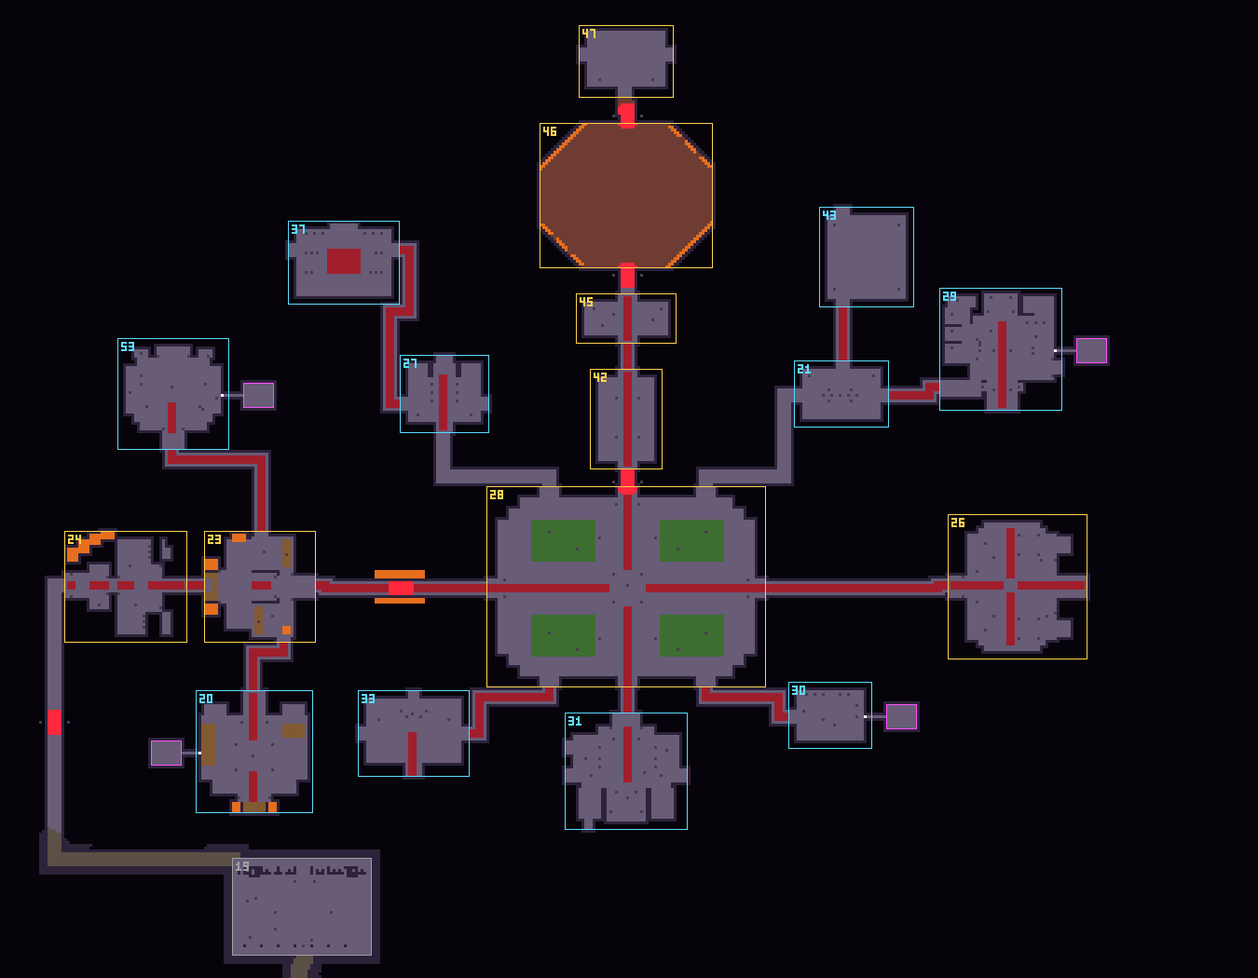
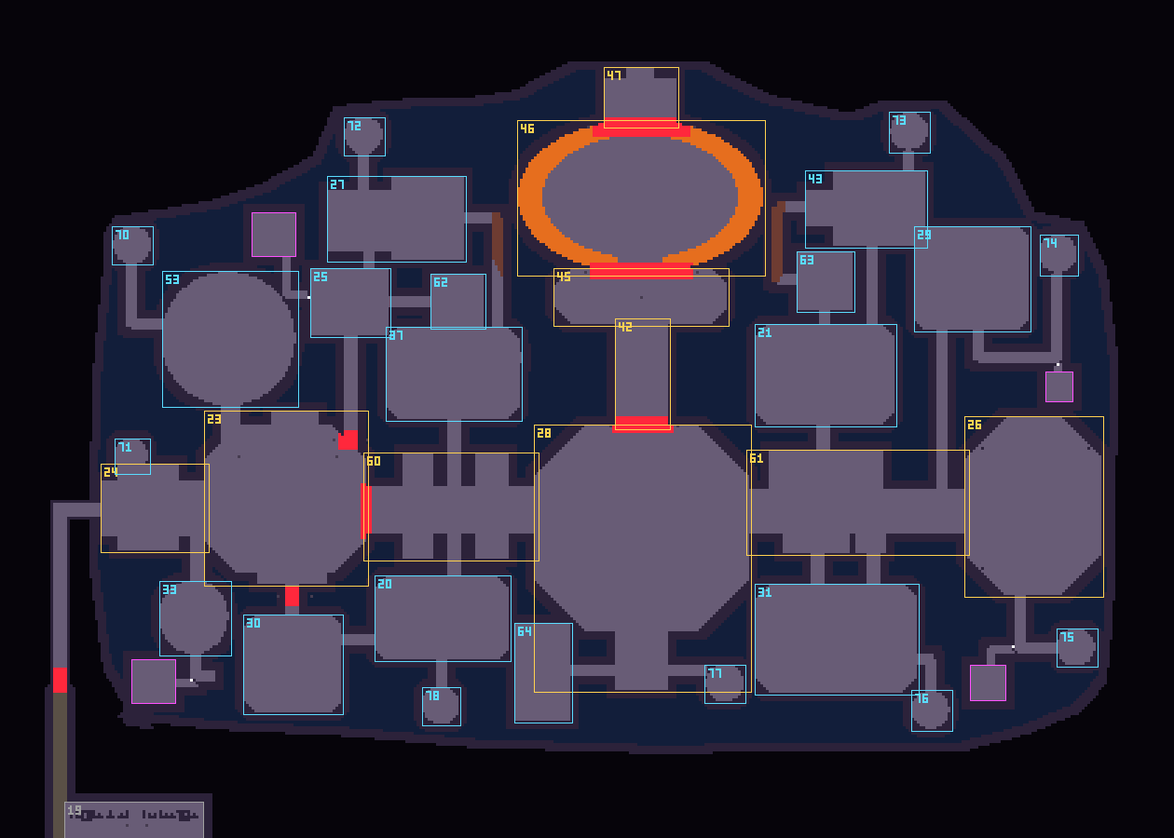
Sunthief's Castle rebuild, stage B: the fixed footprint is the game's castle. LAYOUT.throne lays it tile for tile (walls, the moat as deep water, floors, Ashkar's lava) at its world place (castle_master WORLD), each of its rooms an area of the plan (castle_master AREA_OF: the old numbers where monst

diff --git a/src/world/maps.js b/src/world/maps.js
@@ -3,6 +3,7 @@ import { keyParen } from '../settings.js';
 import { rng, noise2, dist } from '../util.js';
 import { AREAS, WAYS, LOCKS, MECHS, GEYSERS, SECRETS } from './castle_plan.js';
 import { ROOMS } from './castle_rooms.js';
+import { buildMaster, K as MK, WORLD as MWORLD, LOCK_DOORS, WEST_DOOR, toWorld as mWorld, ROOMS as MROOMS } from './castle_master.js';
 
 export const TILE_NAMES = ['water', 'deep', 'sand', 'fen', 'mud', 'snow', 'runefloor', 'runeglyph',
   'ash', 'obsidian', 'marble', 'forge', 'forgewall', 'lava', 'void', 'chapelfloor', 'chapelwall', 'goldvein', 'ribwall',
@@ -1475,14 +1476,22 @@ export function dungeon(seed, def) {
       for (const [num, key, title, region, cx, cy, w, h, shape, ex = {}] of AREAS) {
         const n = room(Math.round(cx - w / 2), Math.round(cy - h / 2), w, h, { kind: KIND[key] || 'area', key, title, num, region, form: shape, sect: SECT[region], shape: 'maze', dep: num, ...ex });
         if (ex.opt) n.leaf = true;
-        const T = ROOMS[key];                                           // (a room laid out from the user's page: its own size, its own place: src/world/castle_rooms.js)
-        if (T) { const [ax, ay] = T.at || [cx, cy]; n.w = T.w; n.h = T.h; n.x = Math.round(ax - T.w / 2); n.y = Math.round(ay - T.h / 2); n.cx = n.x + (T.w >> 1); n.cy = n.y + (T.h >> 1); n.tpl = T; }
+        const T = ex.master ? { w, h, floor: [], doors: {}, master: ex.master } : ROOMS[key];   // (a room of the castle's fixed footprint: laid from it below; otherwise a room laid out from the user's page: its own size, its own place: src/world/castle_rooms.js)
+        if (T && T.master) { n.tpl = T; n.master = ex.master; }
+        else if (T) { const [ax, ay] = T.at || [cx, cy]; n.w = T.w; n.h = T.h; n.x = Math.round(ax - T.w / 2); n.y = Math.round(ay - T.h / 2); n.cx = n.x + (T.w >> 1); n.cy = n.y + (T.h >> 1); n.tpl = T; }
         A[num] = n; R0[key] = n;
       }
       const ell = (cx, cy, rx, ry, t = FLOOR) => { for (let y = Math.floor(cy - ry); y <= cy + ry; y++) for (let x = Math.floor(cx - rx); x <= cx + rx; x++) if (((x - cx) / rx) ** 2 + ((y - cy) / ry) ** 2 <= 1) set(x, y, t); };
       const box = (n, t = FLOOR, i = 0) => carve(n.x + i, n.y + i, n.x + n.w - 1 - i, n.y + n.h - 1 - i, t);
       const poly = (pts, w, t = FLOOR) => { for (let i = 1; i < pts.length; i++) tube(pts[i - 1][0], pts[i - 1][1], pts[i][0], pts[i][1], w, t); };
       const BR = TID.stageboards;                                       // (wooden bridges and boards)
+      const MASTER = rooms.some((n) => n.master) ? buildMaster() : null;   // THE CASTLE'S FIXED FOOTPRINT (2026-11-05: src/world/castle_master.js): its walls, its moat, its floors, its lava
+      if (MASTER) for (let y = 0; y < MASTER.h; y++) for (let x = 0; x < MASTER.w; x++) {
+        const t = MASTER.tiles[y * MASTER.w + x], X = MWORLD[0] + x, Y = MWORLD[1] + y;
+        if (t === MK.VOID) continue;
+        set(X, Y, t === MK.WALL ? WALL : t === MK.WATER ? TID.deep : t === MK.LAVA ? TID.lava : FLOOR);   // (its cracked walls are laid by the secret rooms below)
+      }
+      m.master = MASTER;
       for (const n of rooms) {
         const { x, y, w, h, cx, cy, num } = n, s = num * 7.3;
         if (n.tpl) {                                                    // its page: floor, the blocks standing in it, lava beside
@@ -1635,6 +1644,12 @@ export function dungeon(seed, def) {
       };
       for (const [a, b, opt] of WAYS) {
         const P = U(a), Q = U(b);
+        if (Q.master && !P.master) {                                    // (into the castle: its one door in, the West Door through the curtain; the road round outside the walls)
+          const [dx, dy] = mWorld(...WEST_DOOR), f = floorNear(P, dx - 12, P.cy), pts = [f, [dx - 12, f[1]], [dx - 12, dy], [dx + 4, dy]];
+          poly(pts, 2, FLOOR); markPath(pts); for (let i = 1; i < pts.length; i++) halls.push({ u: pts[i - 1], v: pts[i], climb: true, pid: a + '-' + b });
+          ways[a + '-' + b] = { a, b, mid: [dx - 12, Math.round((f[1] + dy) / 2)], w: 2, dir: Math.PI / 2, opt: !!opt };
+          link(P, Q); continue;
+        }
         const dA = P.tpl && P.tpl.doors[b], dB = Q.tpl && Q.tpl.doors[a];
         if (dA || dB) {                                                 // (to or from a room laid out from its page: through the page's door)
           const end2 = (R, d, o) => { if (!d) { const q = floorNear(R, ...o); return { p: q, o: q }; } const [dx, dy] = SIDE[d[2]], q = [R.x + d[0], R.y + d[1]]; return { p: q, o: [q[0] + dx * 4, q[1] + dy * 4] }; };
@@ -1669,6 +1684,11 @@ export function dungeon(seed, def) {
         { const [ex, ey] = [P.cx, P.cy], [fx, fy] = [Q.cx, Q.cy]; if (P.region === 'forest') markPath([pa2, [ex, ey]]); if (Q.region === 'forest') markPath([pb, [fx, fy]]); }   // (and in the woods, on from the edge to the clearing's middle)
         ways[a + '-' + b] = { a, b, mid, w, dir: Math.atan2(pb[1] - pa2[1], pb[0] - pa2[0]), opt: !!opt };
         link(P, Q);
+      }
+      if (MASTER) for (const [name, [[a0, b0, a1, b1], side]] of Object.entries(LOCK_DOORS)) {   // (the footprint's locked doorways: every open tile in each its gate)
+        const [x0, y0] = mWorld(a0, b0), [x1, y1] = mWorld(a1, b1), [a, b] = name.split('-').map(Number);
+        ways[name] = { a, b, mid: [Math.round((x0 + x1) / 2), Math.round((y0 + y1) / 2)], w: Math.floor(((side === 'N' || side === 'S' ? x1 - x0 : y1 - y0) - 2) / 2), dir: side === 'N' ? -Math.PI / 2 : side === 'S' ? Math.PI / 2 : side === 'W' ? Math.PI : 0, rect: [x0, y0, x1, y1], hall: true };
+        link(U(a), U(b));
       }
       const gate = U(47), arrive = U(48);
       m.castle = { rooms: R0, plan: { ways }, halls, roadTiles: roadSet, door: { x0: gate.cx - 2, x1: gate.cx + 1, y0: gate.y + 2, y1: gate.y + 4 }, arrive: { x: arrive.cx + 0.5, y: arrive.cy + 0.5 } };
@@ -2972,6 +2992,25 @@ export function dungeon(seed, def) {
     rooms.pop(); carveRoom(s); carve(t0x, t0y, t1x, t1y);
     s.plug = { x: px, y: py }; s.tunnel = [t0x, t0y, t1x, t1y]; secrets.push(s);
   }
+  if (m.master) {                                                     // the footprint's secret chambers (castle_master.js): its tunnel ends in a cracked wall at the room it opens from
+    const M = m.master, [WX, WY] = MWORLD, own = (i) => M.owner[i], mid = (i) => [WX + (i % M.w), WY + Math.floor(i / M.w)];
+    MROOMS.forEach((R, k) => {
+      if (R.kind !== 'secret') return;
+      const mine = new Set(); for (let i = 0; i < M.w * M.h; i++) if (own(i) === k) mine.add(i);
+      const seen = new Set(mine), Q = [...mine], tun = []; const plugs = [];   // (its tunnel: the secret tiles that join it, out to their cracked walls)
+      while (Q.length) { const i = Q.pop(), x = i % M.w; for (const j of [x + 1 < M.w ? i + 1 : -1, x > 0 ? i - 1 : -1, i + M.w, i - M.w]) { if (j < 0 || j >= M.w * M.h || seen.has(j)) continue; const t = M.tiles[j]; if (t === MK.SECRET && own(j) < 0) { seen.add(j); Q.push(j); tun.push(j); } else if (t === MK.PLUG) { seen.add(j); plugs.push(j); } } }
+      if (!plugs.length) return;
+      const [px, py] = mid(plugs[0]); for (const j of plugs.slice(1)) { const [x, y] = mid(j); set(x, y, WALL); }   // (one cracked wall; the rest of that end walled)
+      let x0 = 1e9, y0 = 1e9, x1 = -1, y1 = -1; for (const i of mine) { const [x, y] = mid(i); x0 = Math.min(x0, x); y0 = Math.min(y0, y); x1 = Math.max(x1, x); y1 = Math.max(y1, y); }
+      let t0x = 1e9, t0y = 1e9, t1x = -1, t1y = -1; for (const i of tun) { const [x, y] = mid(i); t0x = Math.min(t0x, x); t0y = Math.min(t0y, y); t1x = Math.max(t1x, x); t1y = Math.max(t1y, y); }
+      const from = rooms.find((n) => n.master && [[1, 0], [-1, 0], [0, 1], [0, -1]].some(([dx, dy]) => { const X = px + dx, Y = py + dy; return X >= n.x && Y >= n.y && X < n.x + n.w && Y < n.y + n.h && isF(X, Y); })) || rooms.filter((n) => n.master).reduce((a, b) => (Math.hypot(b.cx - px, b.cy - py) < Math.hypot(a.cx - px, a.cy - py) ? b : a));   // (off a walk: the room nearest it)
+      const s = room(x0, y0, x1 - x0 + 1, y1 - y0 + 1, { secret: true, role: 'secret', kind: 'secret', from, title: R.name, planned: true });
+      rooms.pop();
+      s.plug = { x: px, y: py }; s.tunnel = tun.length ? [t0x, t0y, t1x, t1y] : [px, py, px, py];
+      s.masterVeil = []; for (const i of [...mine, ...tun]) { const [x, y] = mid(i); for (let dy = -1; dy <= 1; dy++) for (let dx = -1; dx <= 1; dx++) { const t = tile(x + dx, y + dy); if (t === WALL || t === TID.deep || t === TID.void || (dx === 0 && dy === 0)) s.masterVeil.push((y + dy) * S + x + dx); } }
+      secrets.push(s);
+    });
+  }
   for (let k = 0, tries = 0; k < (m.castle && m.castle.plan ? 0 : (def.layout && def.layout.secrets) || 0) && tries < 200; tries++) {
     const pool = rooms.filter((n) => n !== boss && n !== start && !n.few);
     if (!pool.length) break;
@@ -3016,6 +3055,7 @@ export function dungeon(seed, def) {
     const inA = s.planned ? (x, y) => x >= A.x && x < A.x + A.w && y >= A.y && y < A.y + A.h && !inT(x, y) && !(Math.abs(x - s.tunnel[0]) <= 1 && Math.abs(y - s.tunnel[1]) <= 1) && tile(x, y) !== TID.void && tile(x, y) !== WALL ? true : false
       : (x, y) => x >= A.x - 1 && x <= A.x + A.w && y >= A.y - 1 && y <= A.y + A.h;   // (not the chamber it opens from, nor its walls; a planned one's tunnel veiled right to its cracked wall)
     const veil = (x0, y0, x1, y1) => { for (let y = y0; y <= y1; y++) for (let x = x0; x <= x1; x++) if (x >= 0 && y >= 0 && x < m.w && y < m.h && !inA(x, y)) { m.veil[y * m.w + x] = 1; (s.veilIdx || (s.veilIdx = [])).push(y * m.w + x); } };
+    if (s.masterVeil) { for (const i of s.masterVeil) { m.veil[i] = 1; (s.veilIdx || (s.veilIdx = [])).push(i); } continue; }
     veil(s.x - 1, s.y - 1, s.x + s.w, s.y + s.h); veil(s.tunnel[0] - 1, s.tunnel[1] - 1, s.tunnel[2] + 1, s.tunnel[3] + 1);
   }
   if (m.sdSeal) for (const i of m.sdSeal) m.tiles[i] = TID.sdwall;
@@ -3417,9 +3457,10 @@ export function dungeon(seed, def) {
     if (m.castle.plan) for (const [la, lb, cond, say] of LOCKS) {                 // (each lock's gate: every floor tile round the middle of its way)
       const W = m.castle.plan.ways[la + '-' + lb], name = la + '-' + lb; m.castle.gates[name] = []; (m.castle.locks = m.castle.locks || []).push({ name, cond, say, a: la, b: lb });
       const R = W.w * 1.5 + 1.5;
-      for (let y = Math.floor(W.mid[1] - R); y <= W.mid[1] + R; y++) for (let x = Math.floor(W.mid[0] - R); x <= W.mid[0] + R; x++) { const t = tile(x, y); if (Math.hypot(x - W.mid[0], y - W.mid[1]) <= R && t !== TID.void && !SOLID_TILES.has(t)) gate(x, y, name); }
+      if (W.rect) { for (let y = W.rect[1]; y <= W.rect[3]; y++) for (let x = W.rect[0]; x <= W.rect[2]; x++) { const t = tile(x, y); if (t !== TID.void && t !== TID.deep && !SOLID_TILES.has(t) && t !== WALL) gate(x, y, name); } }
+      else for (let y = Math.floor(W.mid[1] - R); y <= W.mid[1] + R; y++) for (let x = Math.floor(W.mid[0] - R); x <= W.mid[0] + R; x++) { const t = tile(x, y); if (Math.hypot(x - W.mid[0], y - W.mid[1]) <= R && t !== TID.void && !SOLID_TILES.has(t)) gate(x, y, name); }
       {                                                             // its look across the way: a piece every two tiles, square to the road
-        const look = { '7-8': 'gate_roots', '19-24': 'gate_rock', '28-42': 'portcullis', '46-47': 'portcullis' }[name] || (name === '23-28' ? null : 'gate_seal');
+        const look = { '7-8': 'gate_roots', '19-24': 'gate_rock', '28-42': 'portcullis', '46-47': 'portcullis' }[name] || (name === '23-28' || name === '23-60' ? null : 'gate_seal');
         if (name === '28-42') {                                     // (the keep gate: the Jarls' court's sealed double gate, the user's page; one great piece across the way)
           (m.castle.gateLooks = m.castle.gateLooks || {})[name] = [];
           put(m, 'castle_props/double_gate', Math.round(W.mid[0]), Math.round(W.mid[1]), false, { gateLook: name, look: 'double_gate' }); m.castle.gateLooks[name].push(m.objects[m.objects.length - 1]);
@@ -3430,8 +3471,9 @@ export function dungeon(seed, def) {
           if (W.hall) for (const sd of [-1, 1]) { const x = Math.round(W.mid[0] + nx * sd * (half + 1.5)), y = Math.round(W.mid[1] + ny * sd * (half + 1.5)); put(m, 'keep_decor/keep_pylon', x, y, true, { gatehouse: name }); }   // (the gatehouse: a tower each side)
         }
       }
-      if (name === '23-28') {                                       // the drawbridge: a moat of lava either side; its gate comes down as planks
+      if (name === '23-28' || name === '23-60') {                   // the drawbridge: a moat of lava either side; its gate comes down as planks
         for (const o of m.castle.gates[name]) o.floor = TID.stageboards;
+        if (!W.rect)
         for (let y = Math.floor(W.mid[1] - R - 1); y <= W.mid[1] + R + 1; y++) for (let x = Math.floor(W.mid[0] - R - 4); x <= W.mid[0] + R + 4; x++) if (tile(x, y) === TID.void || tile(x, y) === WALL) set(x, y, TID.lava);
       }
     }

diff --git a/src/world/castle_plan.js b/src/world/castle_plan.js
@@ -13,6 +13,7 @@
 // A way: [a, b, optional] (from area a to area b); its road winds between their nearest sides.
 // A lock: on the way a->b: what opens it (src/castle.js): mech:<key> (a mechanism turned), clear:<n> (that area's
 // defenders dead), break:<n> (that area's cursed objects broken), jarls, ashkar, seal+chain.
+import { masterAreas } from './castle_master.js';
 export const AREAS = [
   // REGION I, THE ASHEN FOREST (bottom right, the forest's way west then north)
   [1, 'a01', 'REALMFALL HOLLOW', 'forest', 700, 748, 26, 28, 'clearing', { role: 'rest' }],
@@ -35,31 +36,9 @@ export const AREAS = [
   [17, 'a17', 'THE CRUCIBLE TRAVERSE', 'mountain', 366, 448, 35, 33, 'ring'],
   [18, 'a18', 'THE PYRE REDOUBT', 'mountain', 418, 452, 42, 35, 'octa'],
   [19, 'a19', 'THE FINAL RAMPART', 'mountain', 418, 404, 50, 35, 'hall'],
-  // ---- THE CASTLE, FROM THE USER'S MASTER LAYOUT (2026-11-05: "Use this as the layout for the castle ... a single route":
-  // West Entrance > Drawbridge Guard > Central Courtyard > the Hollow Jarls (east) > their fall opens the north gate >
-  // Chain Hall > Forge Antechamber > Ashkar (north centre) > the North Keep, its Sun Gate on to the Eclipse Walk). Laid out
-  // at 0.42 tiles to a pixel of the map, the spine at y 290; the side rooms short branches off the route where the map has
-  // them. The rooms are the pages' (src/world/castle_rooms.js), turned where the map turns their doors.
-  // the main route
-  [24, 'a24', 'THE WEST GATE', 'outer', 355, 290, 44, 40, 'hall'],
-  [23, 'a23', 'THE DRAWBRIDGE GUARD', 'outer', 403, 290, 40, 40, 'hall'],
-  [28, 'a28', 'THE CENTRAL COURTYARD', 'outer', 534, 290, 100, 72, 'court'],
-  [26, 'a26', "THE HOLLOW JARLS' COURT", 'outer', 674, 290, 50, 52, 'court', { prefer: 'warden', court: true }],
-  [42, 'a42', 'THE CHAIN HALL', 'inner', 534, 230, 26, 36, 'hall'],
-  [45, 'a45', 'THE FORGE ANTECHAMBER', 'inner', 534, 194, 36, 18, 'hall'],
-  [46, 'a46', 'ASHKAR, THE CHAINED FORGE-GIANT', 'ashkar', 534, 150, 62, 52, 'octa', { guardhall: true }],
-  [47, 'a47', 'THE NORTH KEEP', 'ashkar', 534, 102, 34, 26, 'hall', { role: 'rest', sundoor: true }],
-  // the side rooms (optional; each off the route, back the way it came)
-  [53, 'a53', 'THE CORRUPTED ROSE COURTYARD', 'outer', 372, 221, 40, 40, 'hall', { opt: true, role: 'treasure' }],
-  [20, 'a20', 'THE ROPE & COG GATEHOUSE', 'outer', 401, 349, 42, 44, 'hall', { opt: true, role: 'treasure' }],
-  [27, 'a27', 'THE ROYAL GALLERY', 'inner', 469, 221, 32, 28, 'hall', { opt: true, role: 'treasure' }],
-  [37, 'a37', 'THE LIBRARY', 'inner', 433, 174, 40, 30, 'hall', { opt: true, role: 'treasure' }],
-  [21, 'a21', 'THE DINING HALL', 'inner', 611, 221, 34, 24, 'hall', { opt: true, role: 'treasure' }],
-  [29, 'a29', 'THE BARRACKS', 'inner', 668, 205, 44, 44, 'hall', { opt: true, role: 'treasure' }],
-  [43, 'a43', 'THE TOWER OVERLOOK', 'inner', 620, 172, 34, 36, 'hall', { opt: true, role: 'treasure' }],
-  [31, 'a31', 'THE CHAPEL', 'outer', 534, 356, 44, 42, 'hall', { opt: true, role: 'treasure' }],
-  [30, 'a30', 'THE ARMORY', 'outer', 607, 336, 30, 24, 'hall', { opt: true, role: 'treasure' }],
-  [33, 'a33', 'THE SIDE CHAPEL', 'outer', 458, 342, 40, 31, 'hall', { opt: true, role: 'treasure' }],
+  // ---- THE CASTLE: the user's master layout as one fixed footprint (2026-11-05 rebuild: src/world/castle_master.js), each
+  // room an area of its own from there (its place, its size, its shape all the footprint's; its tiles laid from it)
+  ...masterAreas(),
   // REGION VI, ECLIPSE WALK (apart: the North Keep's Sun Gate's portal only; moved to the west of the map, 2026-11-05)
   [48, 'a48', 'THE ECLIPSE THRESHOLD', 'eclipse', 150, 40, 32, 32, 'round', { arrive: true }],
   [49, 'a49', 'THE DUSK CAUSEWAY', 'eclipse', 150, 90, 24, 55, 'span'],
@@ -72,15 +51,13 @@ export const AREAS = [
 export const WAYS = [
   [1, 2], [2, 3], [3, 5], [5, 7], [7, 8], [8, 9], [9, 10], [10, 11], [11, 12], [12, 13], [13, 15], [15, 16], [16, 17], [17, 18], [18, 19],
   // the castle's one route (the master layout), then the eclipse
-  [19, 24], [24, 23], [23, 28], [28, 26], [28, 42], [42, 45], [45, 46], [46, 47], [48, 49], [49, 50], [50, 51], [51, 52],
+  [19, 24], [48, 49], [49, 50], [50, 51], [51, 52],   // (the castle's own ways are its footprint's doors and walks: castle_master.js)
   [3, 4, true], [4, 5, true], [5, 6, true], [6, 7, true], [12, 14, true], [14, 15, true],
-  // the castle's side rooms: short branches, each back the way it came
-  [23, 53, true], [23, 20, true], [28, 27, true], [27, 37, true], [28, 21, true], [21, 29, true], [21, 43, true], [28, 31, true], [28, 30, true], [28, 33, true],
 ];
 // the locks: on the way a->b, and what opens it
 export const LOCKS = [
   [7, 8, 'clear:7', 'THE WATCH GATE OPENS'], [19, 24, 'clear:19', 'THE FINAL ASCENT OPENS'],
-  [23, 28, 'mechs:clampL,clampR', 'THE CHAINS RELEASE · THE DRAWBRIDGE LOWERS'], [28, 42, 'jarls', 'THE JARLS ARE FALLEN · THE NORTH GATE GRINDS OPEN'],
+  [23, 60, 'mechs:clampL,clampR', 'THE CHAINS RELEASE · THE DRAWBRIDGE LOWERS'], [28, 42, 'jarls', 'THE JARLS ARE FALLEN · THE NORTH GATE GRINDS OPEN'], [23, 25, 'mechs:clampL,clampR'], [23, 30, 'mechs:clampL,clampR'],
   [45, 46, 'mech:seal45', 'THE ENTRANCE SEAL OPENS'], [46, 47, 'ashkar', 'ASHKAR IS FALLEN · THE GREAT SUN GATE IS OPEN'], [50, 51, 'break:50', 'THE CELESTIAL ANCHORS FAIL · THE WAY STEADIES'],
 ];
 // the mechanisms (stand at one, its area cleared, 3 s): [key, area, name, verb, sprite, at x, at y (0..1; else the middle)]
@@ -92,7 +69,7 @@ export const MECHS = [
 // the cursed things to break (an area's lock): [area, count, enemy id]
 // the secret rooms, where the master layout marks them (2026-11-05): [the room it opens from, the side, its name]; behind a
 // cracked wall there, unseen until it breaks, never on the way
-export const SECRETS = [[53, 'E', 'THE HIDDEN CHAMBER'], [29, 'E', 'THE SERVANT PASSAGE'], [30, 'E', "THE QUARTERMASTER'S CACHE"], [20, 'W', "THE SMUGGLER'S HOLD"]];
+export const SECRETS = [];   // (the castle's secret chambers are its footprint's: castle_master.js)
 export const TARGETS = [[31, 3, 'cursed_altar'], [50, 2, 'celestial_anchor'], [6, 1, 'cursed_altar']];
 // the geysers (src/castle.js): [area, flame vents, lava fissures]; set into the ground on and beside its way
 export const GEYSERS = [[9, 3, 0], [10, 4, 0], [11, 0, 3], [12, 5, 0], [13, 2, 0], [15, 2, 0], [16, 0, 4], [17, 0, 2], [18, 3, 0], [19, 4, 1]];

diff --git a/src/world/castle_master.js b/src/world/castle_master.js
@@ -71,7 +71,7 @@ const L = (pts, w, o = {}) => ({ pts, w, ...o });
 export const LINKS = [
   // off the required route
   L([[346, 440], [346, 372]], 16, { stair: true }),                    // the entrance up to the rose courtyard
-  L([[314, 504], [314, 532]], 12),                                    // the entrance down to the side chapel
+  L([[314, 488], [314, 534]], 12),                                    // the entrance down to the side chapel
   L([[258, 247], [258, 300], [312, 300]], 10),                        // the north-west tower down to the rose courtyard
   L([[452, 414], [452, 312]], 12),                                    // the drawbridge's north-east up to the banner hall
   L([[470, 250], [470, 236]], 10),                                    // the banner hall up to the gallery
@@ -82,7 +82,7 @@ export const LINKS = [
   L([[546, 386], [546, 446]], 12, { stair: true }),                   // the library down to the great hall
   L([[401, 534], [401, 562]], 12, { stair: true }),                   // the drawbridge down to the armory
   L([[446, 584], [476, 584]], 10),                                    // the armory to the gatehouse
-  L([[314, 596], [314, 616], [358, 616]], 10),                        // the side chapel to the armory
+  L([[314, 596], [314, 616], [330, 616]], 10),                        // the side chapel's south walk (to the smuggler's cracked wall; no way on to the armory, which is past the drawbridge)
   L([[546, 488], [546, 526]], 12, { stair: true }),                   // the great hall down to the gatehouse
   L([[534, 602], [534, 625]], 10),                                    // the gatehouse to the south-west tower
   L([[650, 612], [690, 612]], 10),                                    // the south watch to the courtyard's south stair
@@ -171,3 +171,44 @@ export function buildMaster() {
   const parts = ROOMS.map((R) => { let x0 = 1e9, y0 = 1e9, x1 = -1, y1 = -1; for (const p of R.parts) { const [a, b] = toT(p.b[0], p.b[1]), [c, d] = toT(p.b[2], p.b[3]); x0 = Math.min(x0, a); y0 = Math.min(y0, b); x1 = Math.max(x1, c); y1 = Math.max(y1, d); } return { ...R, box: [x0, y0, x1, y1] }; });
   return { w, h, tiles: T, owner, parts, plugs, at: toT };
 }
+
+// ---- stage B: the footprint in the game's world (2026-11-05)
+// where the sheet's tile (0, 0) stands in the castle's map (its West Entrance just north of the mountain's Final Rampart)
+export const WORLD = [400, 122];
+// each room's area in the castle plan: [num, key, region, extra] (the old numbers kept where the game's monsters, mechanisms
+// and bosses already know them; new numbers for the rooms new to the layout)
+export const AREA_OF = {
+  entrance: [24, 'outer'], drawbridge: [23, 'outer'], spineW: [60, 'outer'], courtyard: [28, 'outer'], spineE: [61, 'inner'],
+  jarls: [26, 'outer', { prefer: 'warden', court: true }], chainhall: [42, 'inner'], antechamber: [45, 'inner'],
+  ashkar: [46, 'ashkar', { guardhall: true }], northkeep: [47, 'ashkar', { role: 'rest', sundoor: true }],
+  rose: [53, 'outer'], banners: [25, 'outer'], gallery: [27, 'inner'], study: [62, 'inner'], library: [37, 'inner'],
+  overlook: [43, 'inner'], shrine: [63, 'inner'], dining: [21, 'inner'], barracks: [29, 'inner'], sidechapel: [33, 'outer'],
+  armory: [30, 'outer'], ropecog: [20, 'outer'], watch: [64, 'outer'], chapel: [31, 'outer'],
+  twNW: [70, 'outer'], twW: [71, 'outer'], twN1: [72, 'inner'], twN2: [73, 'inner'], twE1: [74, 'inner'], twE2: [75, 'outer'],
+  twSE: [76, 'outer'], twS: [77, 'outer'], twSW: [78, 'outer'],
+};
+// the locks' doorways on the sheet: [x0, y0, x1, y1] (every open tile in it becomes the lock's gate), the side they face
+export const LOCK_DOORS = {
+  '23-60': [[463, 444, 471, 490], 'E'],      // the drawbridge: out of the Drawbridge Guard into the great hall
+  '23-25': [[442, 396, 462, 412], 'N'],      // the guard's north door (to the banner hall and the north-west wing)
+  '23-30': [[390, 536, 412, 550], 'S'],      // the guard's south door (to the armory)
+  '28-42': [[688, 383, 740, 397], 'N'],      // the Jarls' gate: the courtyard's north door, up the chain hall
+  '45-46': [[668, 247, 758, 259], 'N'],      // the forge seal: the antechamber into Ashkar's arena
+  '46-47': [[670, 116, 756, 130], 'N'],      // Ashkar's fall: the arena's north door to the keep
+};
+// the castle's way in from the mountain: a door through the curtain into the West Entrance (sheet px), facing west
+export const WEST_DOOR = [222, 466];
+
+// the areas for the castle plan: [num, key, title, region, cx, cy, w, h, 'master', extra] in the world's tiles
+export function masterAreas() {
+  const S = SCALE, [OX, OY] = ORIGIN, [WX, WY] = WORLD;
+  return ROOMS.filter((R) => AREA_OF[R.id]).map((R) => {
+    let x0 = 1e9, y0 = 1e9, x1 = -1e9, y1 = -1e9; for (const p of R.parts) { x0 = Math.min(x0, p.b[0]); y0 = Math.min(y0, p.b[1]); x1 = Math.max(x1, p.b[2]); y1 = Math.max(y1, p.b[3]); }
+    const tx0 = WX + Math.round((x0 - OX) * S), ty0 = WY + Math.round((y0 - OY) * S), tx1 = WX + Math.round((x1 - OX) * S), ty1 = WY + Math.round((y1 - OY) * S);
+    const [num, region, ex = {}] = AREA_OF[R.id], w = tx1 - tx0 + 1, h = ty1 - ty0 + 1;
+    const extra = { master: R.id, ...(R.kind === 'opt' ? { opt: true, role: 'treasure' } : R.kind === 'tower' ? { opt: true, role: 'rest' } : {}), ...ex };
+    return [num, 'a' + num, R.name, region, tx0 + w / 2, ty0 + h / 2, w, h, 'master', extra];
+  });
+}
+// a sheet point or box in the world's tiles
+export const toWorld = (px, py) => [WORLD[0] + Math.round((px - ORIGIN[0]) * SCALE), WORLD[1] + Math.round((py - ORIGIN[1]) * SCALE)];

diff --git a/src/castle.js b/src/castle.js
@@ -67,7 +67,7 @@ const methods = {
     // seen and felt by that player only, doubled)
     if (!S.bats && !m.netWorld && this.t - S.t0 > 4 && Rm.a01 && this.spawnPending) { S.bats = true; const A = Rm.a01; this.spawnPending([0.3, 0.5, 0.7].map((f) => ['cinder_bat', A.x + f * A.w, A.y + 3])); }
     // the locks (src/world/castle_plan.js LOCKS): each way's gate opens when what holds it is done
-    for (const L of C.locks || []) if (!L.open && this.castleCond(L.cond, Rm)) { L.open = true; this.castleOpen(L.name); this.banner(L.say, 3000); }
+    for (const L of C.locks || []) if (!L.open && this.castleCond(L.cond, Rm)) { L.open = true; this.castleOpen(L.name); if (L.say) this.banner(L.say, 3000); }
     C.goal = n ? this.castleGoal(n, Rm, S) : null;
     // the way on, pointed to once the area's goal is done (2026-11-03, the user: "ensure that players know how to complete
     // rooms"): the gate this area held, open now; an arrow from you to it until you reach it
@@ -304,7 +304,7 @@ const methods = {
   },
   castleOpen(which) {
     const m = this.map;
-    if (which === '23-28' && !this.dbLowering && m.castle.rooms && m.castle.rooms.a23) {   // the drawbridge: it comes down a plank at a time from the engine's side, its chains running out
+    if ((which === '23-28' || which === '23-60') && !this.dbLowering && m.castle.rooms && m.castle.rooms.a23) {   // the drawbridge: it comes down a plank at a time from the engine's side, its chains running out
       this.dbLowering = true; const A = m.castle.rooms.a23, G = (m.castle.gates[which] || []).slice().sort((p, q) => Math.hypot(p.x - A.cx, p.y - A.cy) - Math.hypot(q.x - A.cx, q.y - A.cy));
       this.sfx('chain'); this.vx({ k: 'shake', amt: 5 });
       G.forEach((o, k) => (this.castleLater = this.castleLater || []).push({ t: this.t + 0.3 + k * 0.06, f: () => {
